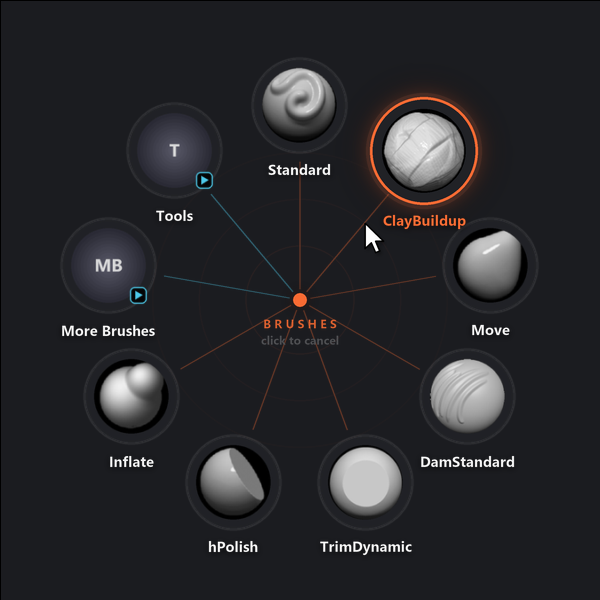
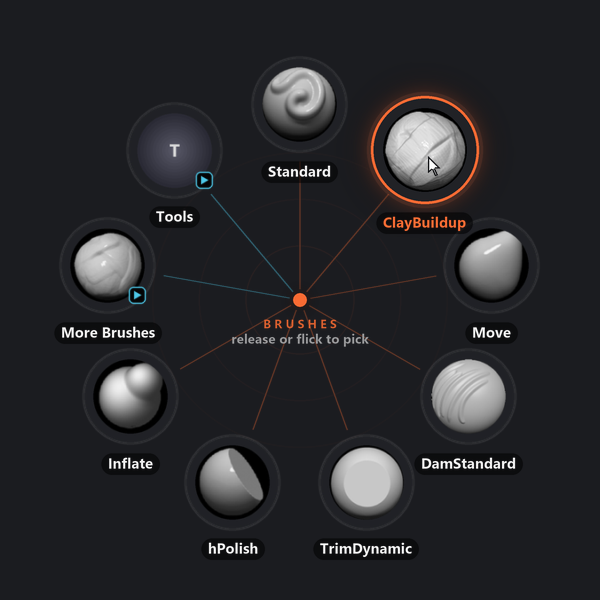
Theme toggle: show the ring and Studio in Dark and Light

diff --git a/index.html b/index.html
@@ -145,9 +145,17 @@
         <h3>More than brushes.</h3>
         <p>A slot can select a brush, an alpha, a material or a texture, press any ZBrush button, set a slider, flip a switch, run several of those in a row, or open another ring. Hover a submenu and one stroke reaches an item two rings deep.</p>
         <p class="feature-sub">If ZBrush does not have the alpha, material or texture yet, ZOrbit loads it from its file first.</p>
+        <div class="theme-switch">
+          <span class="theme-switch-l">Theme</span>
+          <div class="theme-seg" role="group" aria-label="Theme">
+            <button type="button" data-theme-set="dark" aria-pressed="true">Dark</button>
+            <button type="button" data-theme-set="light" aria-pressed="false">Light</button>
+          </div>
+        </div>
+        <p class="theme-note">The ring in the Dark and Light themes. The Studio picture below follows the same switch.</p>
       </div>
       <figure class="feature-media">
-        <img src="images/ring.png" alt="Brushes menu with ClayBuildup hovered" width="600" height="450" loading="lazy">
+        <img src="images/ring.png" alt="Brushes menu with ClayBuildup hovered, in the Dark theme" width="600" height="600" loading="lazy" data-light="images/ring-light.png" data-light-alt="Brushes menu with ClayBuildup hovered, in the Light theme">
       </figure>
     </article>
 
@@ -234,9 +242,17 @@
         <h3>Edit it in Studio.</h3>
         <p>ZOrbit Studio shows a live preview of the real ring. Drag brushes in from a searchable library, record hotkeys, change colours, size and animation. Twelve open animations, from instant to a swirling spiral.</p>
         <p class="feature-sub">The first time Studio opens, a Setup screen walks you through the install. It finds ZBrush, says whether to restart it, and has you try the ring once.</p>
+        <div class="theme-switch">
+          <span class="theme-switch-l">Theme</span>
+          <div class="theme-seg" role="group" aria-label="Theme">
+            <button type="button" data-theme-set="dark" aria-pressed="true">Dark</button>
+            <button type="button" data-theme-set="light" aria-pressed="false">Light</button>
+          </div>
+        </div>
+        <p class="theme-note">ZOrbit has Dark, Light and <a href="https://zorbit.lol/docs/appearance/#theme">Follow Windows</a> themes for the ring, the browser and Studio. This switch shows the first two on the pictures here. The Light picture of Studio is its Settings screen, where the choice lives.</p>
       </div>
       <figure class="feature-media">
-        <img src="images/studio.png" alt="ZOrbit Studio: the menu list, the ring preview and the brush library" width="800" height="500" loading="lazy">
+        <img src="images/studio.png" alt="ZOrbit Studio in the Dark theme: the menu list, the ring preview and the brush library" width="1360" height="860" loading="lazy" data-light="images/studio-light.png" data-light-alt="ZOrbit Studio in the Light theme, on the Settings screen: the Theme setting with Dark, Light and Follow Windows above the ring geometry and a ring preview">
       </figure>
     </article>
 

diff --git a/site.js b/site.js
@@ -371,8 +371,57 @@
     groups.forEach(function (g) { io.observe(g); });
   }
 
+  // Theme demo: the Dark / Light switches flip the ring and Studio pictures together. The light picture is a
+  // second image stacked over the dark one and faded in by CSS (html[data-shots]); the choice is remembered.
+  var SHOTS_KEY = 'zorbit.shots.v1';
+
+  function themeDemo() {
+    var imgs = document.querySelectorAll('img[data-light]');
+    var buttons = document.querySelectorAll('[data-theme-set]');
+    if (!imgs.length || !buttons.length) return;
+
+    var layers = [];
+    imgs.forEach(function (base) {
+      var wrap = document.createElement('span');
+      wrap.className = 'theme-swap';
+      base.parentNode.insertBefore(wrap, base);
+      wrap.appendChild(base);
+      var top = base.cloneNode(false);
+      top.removeAttribute('data-light');
+      top.removeAttribute('data-light-alt');
+      top.className = 'theme-alt';
+      top.src = base.dataset.light;
+      wrap.appendChild(top);
+      layers.push({ base: base, top: top, darkAlt: base.alt, lightAlt: base.dataset.lightAlt || base.alt });
+    });
+
+    function apply(mode) {
+      var light = mode === 'light';
+      document.documentElement.setAttribute('data-shots', light ? 'light' : 'dark');
+      layers.forEach(function (l) {
+        l.base.alt = light ? '' : l.darkAlt;
+        l.top.alt = light ? l.lightAlt : '';
+        if (light) { l.base.setAttribute('aria-hidden', 'true'); l.top.removeAttribute('aria-hidden'); }
+        else { l.top.setAttribute('aria-hidden', 'true'); l.base.removeAttribute('aria-hidden'); }
+      });
+      buttons.forEach(function (b) { b.setAttribute('aria-pressed', String(b.dataset.themeSet === (light ? 'light' : 'dark'))); });
+    }
+
+    var saved = null;
+    try { saved = localStorage.getItem(SHOTS_KEY); } catch (e) {}
+    apply(saved === 'light' ? 'light' : 'dark');
+
+    buttons.forEach(function (b) {
+      b.addEventListener('click', function () {
+        apply(b.dataset.themeSet);
+        try { localStorage.setItem(SHOTS_KEY, b.dataset.themeSet); } catch (e) {}
+      });
+    });
+  }
+
   function boot() {
     faq();
+    themeDemo();
     enhanceDownloads();
     reviewWall();
     reveal();

diff --git a/styles.css b/styles.css
@@ -603,6 +603,31 @@ kbd {
   box-shadow: 0 24px 60px rgba(0, 0, 0, .45), 0 0 60px rgba(248, 107, 51, .07);
 }
 .feature-media img { width: 100%; }
+/* Theme demo: a Dark / Light switch and a picture that crossfades between the two. */
+.theme-switch { display: flex; align-items: center; gap: 12px; margin-top: 16px; }
+.theme-switch-l { font: 700 11px/1 var(--mono); letter-spacing: .12em; text-transform: uppercase; color: var(--sub); }
+.theme-seg {
+  display: inline-flex; gap: 2px; padding: 3px; border-radius: 99px;
+  background: rgba(26, 27, 30, .7); border: 1px solid var(--line2);
+}
+.theme-seg button {
+  height: 28px; padding: 0 14px; border-radius: 99px;
+  background: transparent; border: 1px solid transparent; color: var(--sub);
+  font-size: 12px; font-weight: 600; cursor: pointer;
+  transition: border-color .12s, color .12s, background .12s;
+}
+.theme-seg button:hover { color: var(--text); }
+.theme-seg button[aria-pressed="true"] {
+  color: var(--accent); border-color: rgba(248, 107, 51, .5); background: var(--accent-wash);
+}
+.theme-note { color: var(--sub); font-size: 13.5px; margin-top: 12px; }
+.theme-swap { display: grid; }
+.theme-swap > img { grid-area: 1 / 1; }
+.theme-swap > .theme-alt { opacity: 0; transition: opacity .35s ease; }
+html[data-shots="light"] .theme-swap > .theme-alt { opacity: 1; }
+@media (prefers-reduced-motion: reduce) {
+  .theme-swap > .theme-alt { transition: none; }
+}
 .tilt {
   transform: perspective(900px) rotateX(var(--rx, 0deg)) rotateY(var(--ry, 0deg));
   transition: transform .5s var(--ease), box-shadow .3s, border-color .3s;
